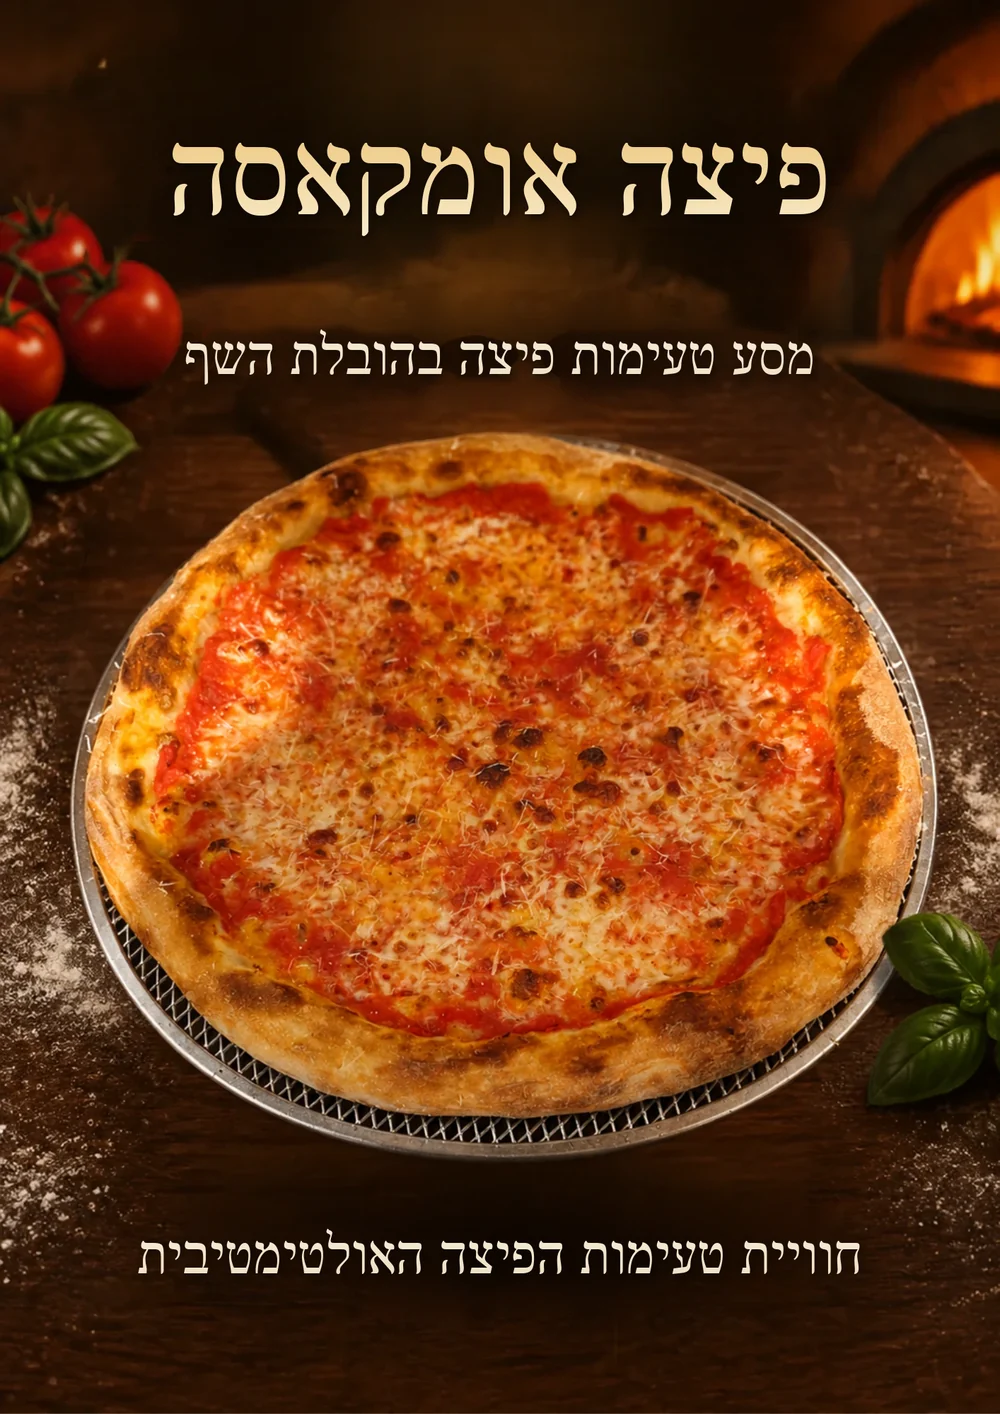
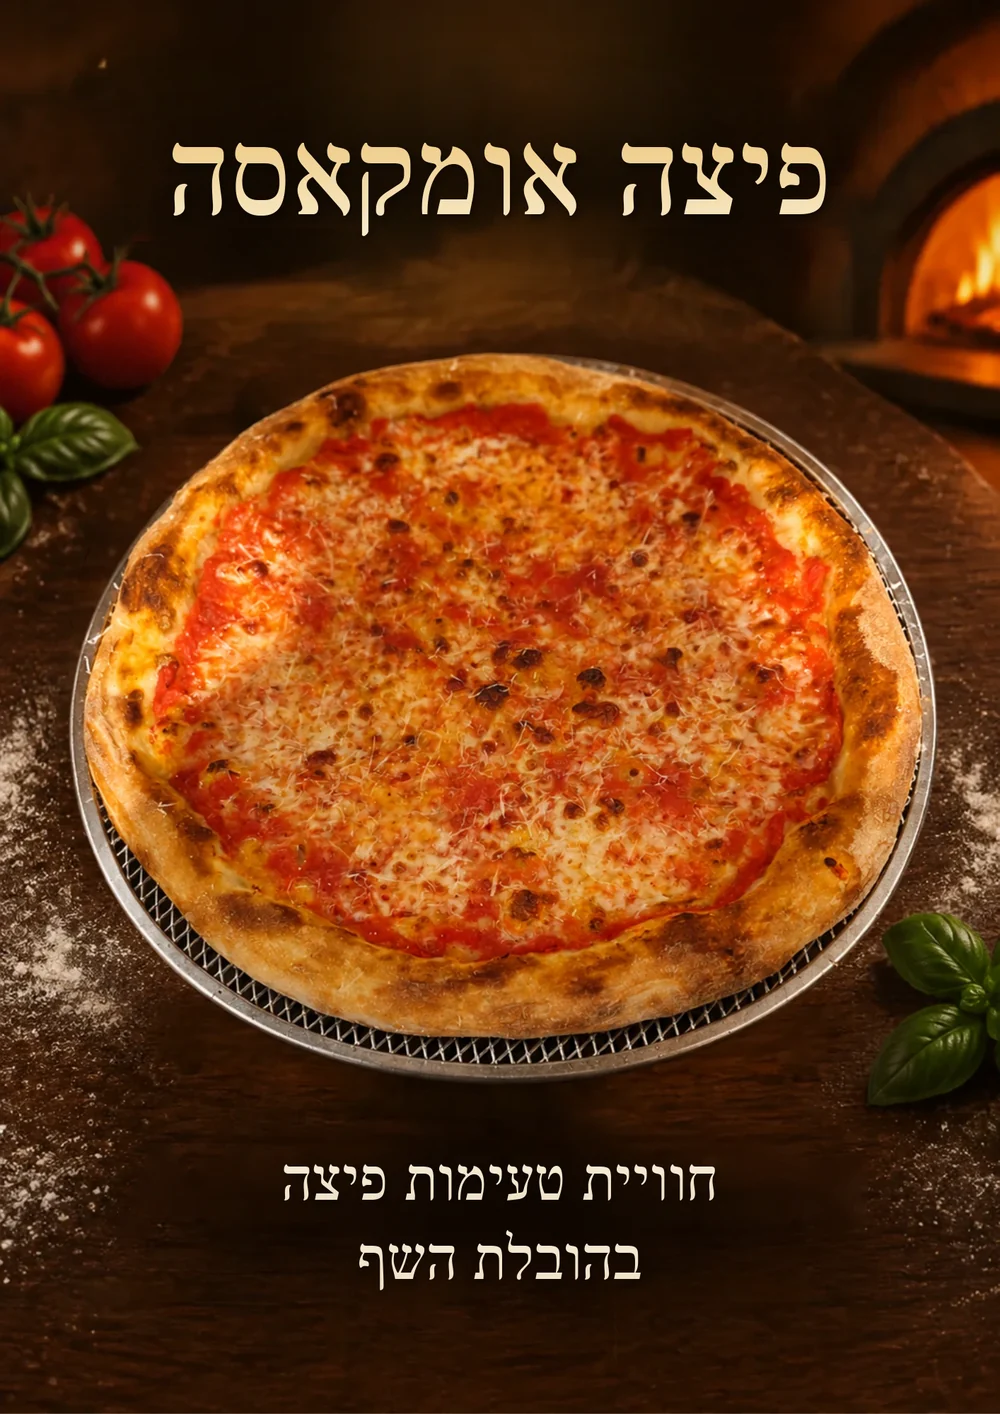
New flyer (English) and matching Hebrew flyer

diff --git a/index.html b/index.html
@@ -246,7 +246,7 @@ footer .wrap a:hover{color:var(--ink)}
         </div>
       </div>
       <figure>
-        <img class="flyer" src="images/flyer.webp?v=1" data-he-src="images/flyer-he.webp?v=1" alt="Pizza Omakase flyer: a chef-guided pizza tasting journey, the ultimate pizza tasting experience" data-he-alt="פלייר של פיצה אומקאסה: מסע טעימות פיצה בהובלת השף, חוויית טעימות הפיצה האולטימטיבית" width="1000" height="1414">
+        <img class="flyer" src="images/flyer.webp?v=2" data-he-src="images/flyer-he.webp?v=2" alt="Pizza Omakase flyer: a chef-guided pizza tasting experience" data-he-alt="פלייר של פיצה אומקאסה: חוויית טעימות פיצה בהובלת השף" width="1000" height="1414">
       </figure>
     </div>
   </div>
